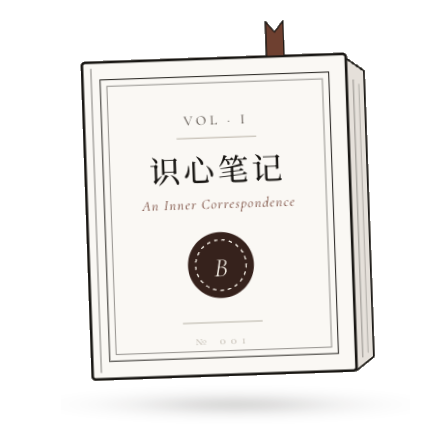
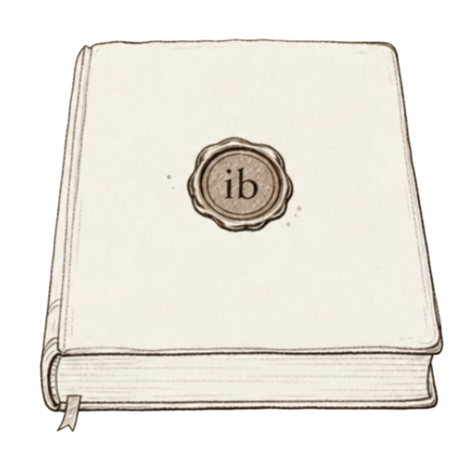
feat: 去掉匿名登录 & 首页图片调整

Changed region(s): [[0.0591, 0.0295, 0.9455, 0.9455], [0.325, 0.2659, 0.6795, 0.6795]]

diff --git a/packages/miniprogram/src/adapters/mpRequest.js b/packages/miniprogram/src/adapters/mpRequest.js
@@ -2,8 +2,7 @@ import Taro from '@tarojs/taro';
 import { getOpenid } from '../utils/openidStore';
 
 const CHAT_SERVICE_NAME = 'inner-book-server';
-const CALL_CONTAINER_TIMEOUT = 15000;
-const CHAT_HTTP_FALLBACK_TIMEOUT = 90000;
+const CALL_CONTAINER_TIMEOUT = 90000;
 
 /** 是否为 chat 相关接口（走云托管 callContainer） */
 function isChatUrl(url) {
@@ -78,25 +77,9 @@ function isCallContainerTimeoutError(err) {
  */
 export const mpRequestAdapter = {
   _cloudApp: null,
-  _cloudbaseAccessTokenProvider: null,
 
   setCloudApp(app) {
     this._cloudApp = app;
-  },
-
-  setCloudbaseAccessTokenProvider(provider) {
-    this._cloudbaseAccessTokenProvider = typeof provider === 'function' ? provider : null;
-  },
-
-  async _getCloudbaseAccessToken() {
-    if (!this._cloudbaseAccessTokenProvider) {
-      throw new Error('CloudBase token provider 未初始化');
-    }
-    const token = await this._cloudbaseAccessTokenProvider();
-    if (typeof token !== 'string' || !token) {
-      throw new Error('CloudBase accessToken 为空');
-    }
-    return token;
   },
 
   async request(url, options = {}) {
@@ -164,23 +147,11 @@ export const mpRequestAdapter = {
       return response;
     } catch (err) {
       if (isCallContainerTimeoutError(err)) {
-        console.warn('[mpRequest] callContainer timeout, fallback to wx.request:', err);
-        return this._requestChatViaHttpFallback(url, options);
+        console.warn('[mpRequest] callContainer timeout:', err);
+        throw new Error(err.errMsg || err.message || '云托管请求超时，请稍后重试');
       }
       throw new Error(err.errMsg || err.message || '云托管请求失败');
     }
-  },
-
-  async _requestChatViaHttpFallback(url, options = {}) {
-    const accessToken = await this._getCloudbaseAccessToken();
-    const header = { ...(options.headers || {}) };
-    header.Authorization = `Bearer ${accessToken}`;
-
-    return this._wxRequest(url, {
-      ...options,
-      headers: header,
-      timeout: CHAT_HTTP_FALLBACK_TIMEOUT,
-    });
   },
 
   _wxRequest(url, options = {}) {

diff --git a/packages/miniprogram/src/contexts/cloudbaseContext.jsx b/packages/miniprogram/src/contexts/cloudbaseContext.jsx
@@ -6,7 +6,6 @@ import { setAuthRef } from '@know-yourself/core';
 import { mpRequestAdapter } from '../adapters/mpRequest';
 import { wrapMpDb } from '../adapters/mpDb';
 import { setOpenid } from '../utils/openidStore';
-import cloudbase from '@cloudbase/js-sdk/miniprogram_dist/index';
 
 const CloudbaseContext = createContext(null);
 const CLOUDBASE_ENV_ID = 'inner-book-0gdweqyu8ab70e46';
@@ -33,20 +32,6 @@ export function CloudbaseProvider({ children }) {
       setCloudbaseApp(cloudApp);
       setTrackCloudbaseApp(cloudApp);
       mpRequestAdapter.setCloudApp(cloudApp);
-
-      const cloudbaseJSSDK = cloudbase.init({
-        env: CLOUDBASE_ENV_ID,
-      });
-      const cloudbaseAuth = cloudbaseJSSDK.auth();
-      const anonymousLoginPromise = cloudbaseAuth.signInAnonymously().catch((error) => {
-        console.error('[CloudbaseProvider] signInAnonymously failed:', error);
-        throw error;
-      });
-      mpRequestAdapter.setCloudbaseAccessTokenProvider(async () => {
-        await anonymousLoginPromise;
-        const tokenResult = await cloudbaseAuth.getAccessToken();
-        return tokenResult?.accessToken || tokenResult?.access_token || tokenResult || '';
-      });
 
       // 一进 app 即获取 openid，用于后续所有请求
       Taro.cloud.callFunction({

diff --git a/packages/miniprogram/src/pages/index/index.scss b/packages/miniprogram/src/pages/index/index.scss
@@ -109,17 +109,17 @@
 
 .orb-container {
   position: relative;
-  width: 520px;
-  height: 520px;
-  margin-top: 62px;
+  width: 460px;
+  height: 460px;
+  margin-top: 80px;
   transform: rotate(-2deg);
   animation: book-breathe 5s ease-in-out infinite;
 }
 
 .book-image {
   display: block;
-  width: 520px;
-  height: 520px;
+  width: 460px;
+  height: 460px;
 }
 
 .carousel-area {